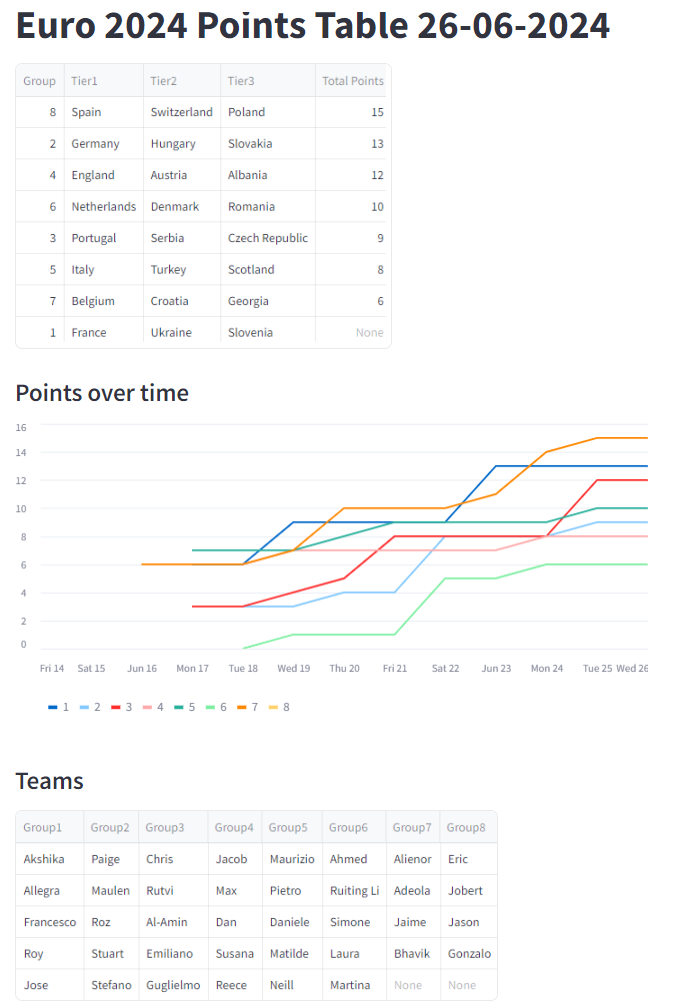
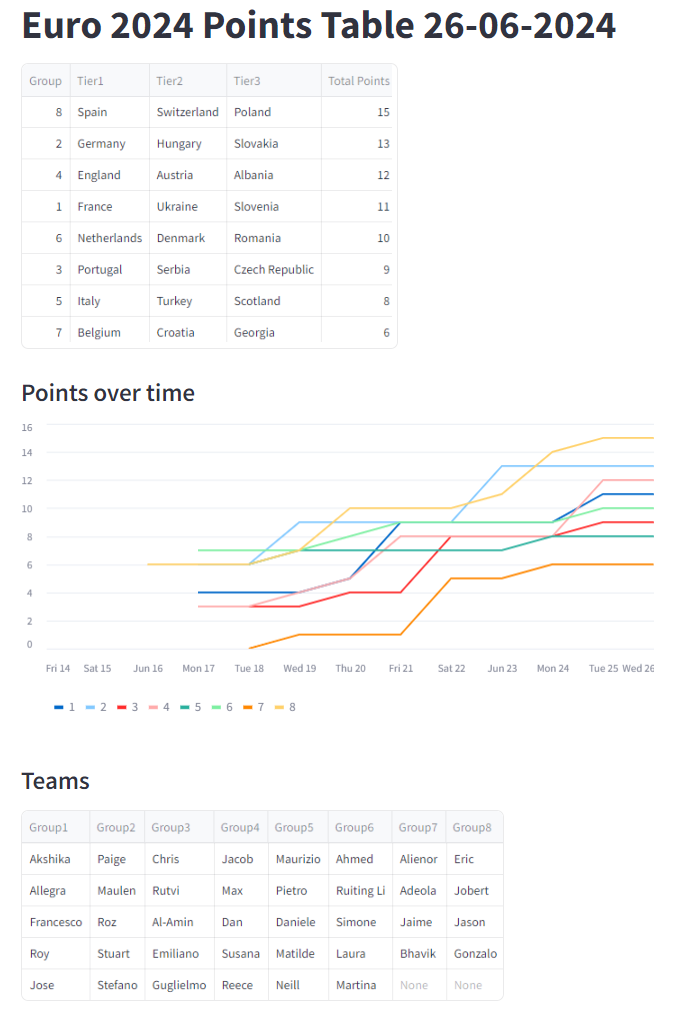
Updated screenshot

diff --git a/main.py b/main.py
@@ -56,13 +56,10 @@ def calculate_points(data):
             date = datetime.strptime(match["date"], "%Y-%m-%d")
             date_table[date] = calculate_team_points(points_table)
 
-    return pd.DataFrame(date_table, index=group_df.Group)
+    return pd.DataFrame(date_table)
 
 # Calculate points
 date_df = calculate_points(euro_data)
-
-# Create map of latest points
-points_map = dict(zip(date_df.index, date_df[date_df.columns[-1]]))
 
 # Load team config and calc points
 group_df['Total Points'] = date_df[date_df.columns[-1]]
@@ -74,6 +71,8 @@ st.title(f"Euro 2024 Points Table {datetime.today().strftime('%d-%m-%Y')}")
 st.dataframe(group_df, hide_index=True)
 
 # Flip and display
+date_df['Group'] = group_df.Group
+date_df.set_index('Group', inplace=True)
 graph_df = date_df.transpose()
 st.subheader("Points over time")
 st.line_chart(graph_df)
